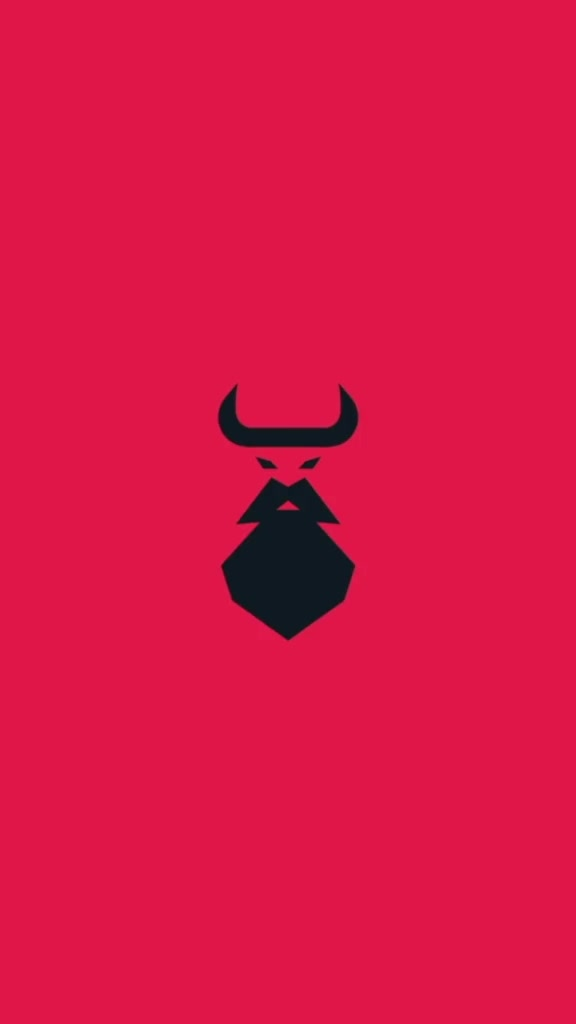
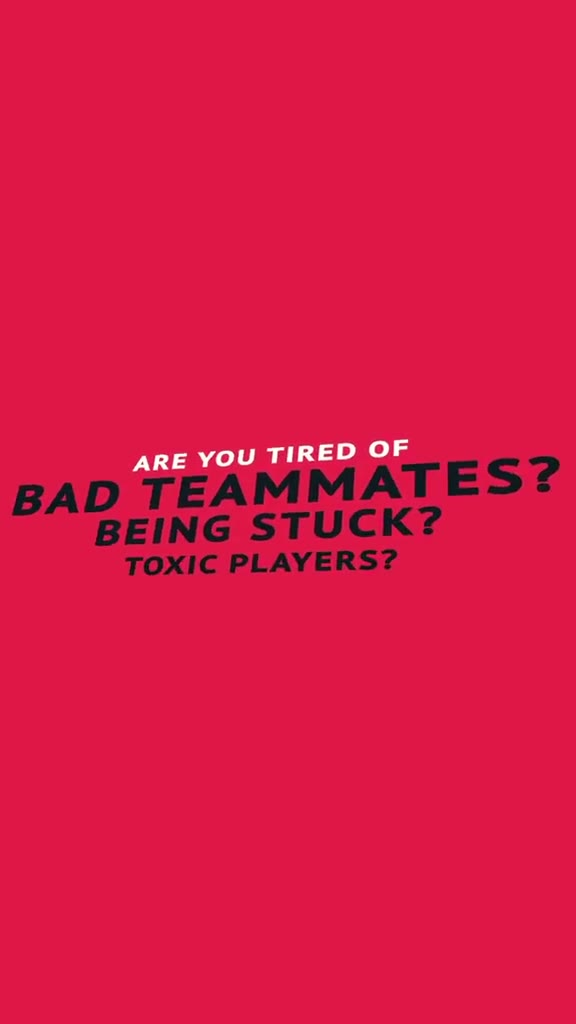
Lead OdinBoost with the 17-second hook ad
Swap the hero and gallery videos so the shorter "bad teammates" ad plays
first, and refresh its poster and the project thumbnail from the hook frame.

Changed region(s): [[0.0, 0.375, 0.9688, 0.625]]

diff --git a/src/content/projects.ts b/src/content/projects.ts
@@ -344,21 +344,21 @@ export const projects: Project[] = [
     thumbnail: "/media/thumbnails/odinboost-vertical-ads.jpg",
     hero: {
       type: "video",
-      src: "/media/videos/odinboost/ad-1.mp4",
-      poster: "/media/posters/odinboost-1.jpg",
-      alt: "OdinBoost vertical ad, 36 seconds",
+      src: "/media/videos/odinboost/ad-2.mp4",
+      poster: "/media/posters/odinboost-2.jpg",
+      alt: "OdinBoost vertical ad, 17 seconds",
       aspect: 9 / 16,
     },
     overview:
-      "Two 9:16 spots. The longer one follows a player from rank screen to promotion; the shorter one opens on a hook, “Are you tired of bad teammates?”, and ends on the logo.",
+      "Two 9:16 spots. The shorter one opens on a hook, “Are you tired of bad teammates?”, and ends on the logo; the longer one follows a player from rank screen to promotion.",
     objective: "Stop the scroll in the first second and keep the brand colours on screen from hook to end card.",
     gallery: [
       {
         type: "video",
-        src: "/media/videos/odinboost/ad-2.mp4",
-        poster: "/media/posters/odinboost-2.jpg",
-        alt: "OdinBoost vertical ad, 17 seconds",
-        caption: "Ad 02 · 17 seconds",
+        src: "/media/videos/odinboost/ad-1.mp4",
+        poster: "/media/posters/odinboost-1.jpg",
+        alt: "OdinBoost vertical ad, 36 seconds",
+        caption: "Ad 02 · 36 seconds",
         aspect: 9 / 16,
       },
     ],
